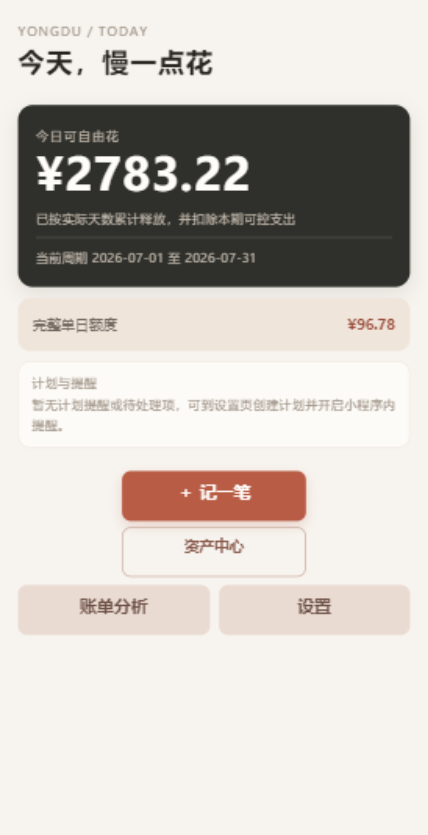
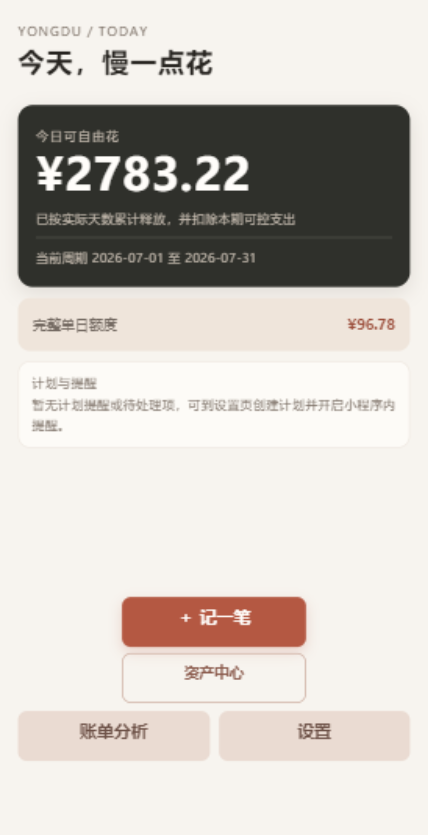
fix: phase 9 contrast type layout and evidence
Raise home-only weak text and primary button contrast, enforce 24rpx
minimum type, sink home actions on tall screens, extend contract tests
with WCAG calculations, clean whitespace, and refresh dual Stable shots.

Changed region(s): [[0.0304, 0.5605, 0.972, 0.9341]]

diff --git a/tests/phase9-home-visual-contract.test.js b/tests/phase9-home-visual-contract.test.js
@@ -54,6 +54,44 @@ function loadHomePage() {
   return { definition, navigations };
 }
 
+/** WCAG 2.x relative luminance for sRGB hex (#rgb or #rrggbb). */
+function relativeLuminance(hex) {
+  const raw = String(hex).trim().replace(/^#/, '');
+  const full = raw.length === 3
+    ? raw.split('').map((c) => c + c).join('')
+    : raw;
+  if (!/^[0-9a-fA-F]{6}$/.test(full)) {
+    throw new Error(`invalid hex color: ${hex}`);
+  }
+  const channels = [0, 2, 4].map((i) => {
+    const v = parseInt(full.slice(i, i + 2), 16) / 255;
+    return v <= 0.03928 ? v / 12.92 : ((v + 0.055) / 1.055) ** 2.4;
+  });
+  return 0.2126 * channels[0] + 0.7152 * channels[1] + 0.0722 * channels[2];
+}
+
+function contrastRatio(foreground, background) {
+  const l1 = relativeLuminance(foreground);
+  const l2 = relativeLuminance(background);
+  const lighter = Math.max(l1, l2);
+  const darker = Math.min(l1, l2);
+  return (lighter + 0.05) / (darker + 0.05);
+}
+
+/** Extract first matching color hex for a CSS property from a rule block. */
+function firstColorInRule(wxss, selectorRegex, property) {
+  const re = new RegExp(
+    `${selectorRegex.source}\\s*\\{([^}]*)\\}`,
+    selectorRegex.flags.includes('i') ? 'is' : 's',
+  );
+  const m = wxss.match(re);
+  assert.ok(m, `missing rule for ${selectorRegex}`);
+  const propRe = new RegExp(`${property}\\s*:\\s*(#[0-9a-fA-F]{3,8})`, 'i');
+  const pm = m[1].match(propRe);
+  assert.ok(pm, `missing ${property} in ${selectorRegex}`);
+  return pm[1];
+}
+
 test('home page keeps real model bindings for free amount period quota and settlement', () => {
   const wxml = read('miniprogram/pages/home/home.wxml');
   for (const token of [
@@ -173,8 +211,10 @@ test('design system document freezes tokens states and reuse rules', () => {
   for (const token of [
     '#F7F4EF',
     '#282521',
-    '#B85C45',
+    '#B45842',
+    '#796D63',
     '#2F302B',
+    '#C7BDB1',
     '88rpx',
     '24rpx',
     '4.5:1',
@@ -182,8 +222,70 @@ test('design system document freezes tokens states and reuse rules', () => {
     '待结算',
     '预支',
     '320px',
+    '局部覆盖',
   ]) {
     assert.ok(doc.toLowerCase().includes(token.toLowerCase()), `missing token ${token}`);
   }
   assert.ok(doc.includes('不引入') || doc.includes('禁止') || doc.includes('禁区'));
+});
+
+test('home weak text and primary button meet WCAG contrast ≥4.5 on shipped tokens', () => {
+  const wxss = read('miniprogram/pages/home/home.wxss');
+  const weak = firstColorInRule(wxss, /\.home-page\s+\.eyebrow/, 'color');
+  const weakHint = firstColorInRule(wxss, /\.home-page\s+\.hint/, 'color');
+  const weakEmpty = firstColorInRule(wxss, /\.plan-empty/, 'color');
+  const primaryBg = firstColorInRule(wxss, /\.home-page\s+\.primary-button/, 'background');
+  const primaryFg = firstColorInRule(wxss, /\.home-page\s+\.primary-button/, 'color');
+  const heroCaption = firstColorInRule(wxss, /\.hero-caption/, 'color');
+
+  assert.match(weak, /#796d63/i);
+  assert.match(weakHint, /#796d63/i);
+  assert.match(weakEmpty, /#796d63/i);
+  assert.match(primaryBg, /#b45842/i);
+  assert.match(primaryFg, /#fffdfa/i);
+  assert.match(heroCaption, /#c7bdb1/i);
+
+  const pageBg = '#F7F4EF';
+  const cardBg = '#FFFDFA';
+  const cWeakPage = contrastRatio(weak, pageBg);
+  const cWeakCard = contrastRatio(weak, cardBg);
+  const cPrimary = contrastRatio(primaryFg, primaryBg);
+
+  assert.ok(cWeakPage >= 4.5, `weak on page bg contrast ${cWeakPage}`);
+  assert.ok(cWeakCard >= 4.5, `weak on card bg contrast ${cWeakCard}`);
+  assert.ok(cPrimary >= 4.5, `primary text contrast ${cPrimary}`);
+  // ratios must be computed, not hard-coded constants equal to themselves
+  assert.notEqual(cWeakPage, 4.5);
+  assert.notEqual(cWeakCard, 4.5);
+  assert.notEqual(cPrimary, 4.5);
+});
+
+test('home WXSS declares no font-size below 24rpx', () => {
+  const wxss = read('miniprogram/pages/home/home.wxss');
+  const sizes = [...wxss.matchAll(/font-size\s*:\s*([\d.]+)rpx/gi)].map((m) => Number(m[1]));
+  assert.ok(sizes.length > 0, 'expected font-size declarations');
+  for (const size of sizes) {
+    assert.ok(size >= 24, `font-size ${size}rpx is below 24rpx`);
+  }
+  assert.match(wxss, /\.card-kicker\s*\{[^}]*font-size:\s*24rpx/s);
+});
+
+test('home layout sinks actions with auto margin and keeps 320px scroll contract', () => {
+  const wxss = read('miniprogram/pages/home/home.wxss');
+  const app = read('miniprogram/app.wxss');
+  assert.match(wxss, /\.home-page\s*\{[^}]*display:\s*flex/s);
+  assert.match(wxss, /\.home-page\s*\{[^}]*flex-direction:\s*column/s);
+  assert.match(wxss, /\.home-actions\s*\{[^}]*margin-top:\s*auto/s);
+  assert.match(wxss, /\.home-page::after\s*\{[^}]*flex:\s*1/s);
+  assert.match(wxss, /\.home-actions\s*\{[^}]*order:\s*2/s);
+  assert.doesNotMatch(wxss, /position:\s*(fixed|sticky)/i);
+  assert.match(wxss, /@media\s*\(max-width:\s*320px\)/);
+  assert.match(wxss, /flex-direction:\s*column/);
+  assert.match(app, /env\(safe-area-inset-bottom\)/);
+  assert.match(app, /overflow-x:\s*hidden/);
+  // 320px must not permanently pin actions with auto if that fights scroll; allow override
+  assert.match(
+    wxss,
+    /@media\s*\(max-width:\s*320px\)\s*\{[\s\S]*?\.home-actions\s*\{[^}]*margin-top:\s*16rpx/s,
+  );
 });

diff --git a/docs/PHASE9_DESIGN_SYSTEM.md b/docs/PHASE9_DESIGN_SYSTEM.md
@@ -1,6 +1,6 @@
 # 用度 · 阶段九设计规范
 
-本规范服务微信小程序「用度」首页高保真样板，并作为记账、账单、设置三页后续铺开的视觉基线。  
+本规范服务微信小程序「用度」首页高保真样板，并作为记账、账单、设置三页后续铺开的视觉基线。
 阶段九只改首页样板与本文档；业务数据、领域算法与路由保持不变。
 
 ## 1. 品牌气质与禁区
@@ -24,14 +24,14 @@
 | 角色 | 值 | 用途 |
 |------|-----|------|
 | 页面背景 | `#F7F4EF` | 全局底色，暖米 |
-| 卡片背景 | `#fffdfa` | 主内容卡 |
+| 卡片背景 | `#FFFDFA` | 主内容卡 |
 | 正文 | `#282521` | 主文案、金额数字 |
 | 次级文字 | `#756B63` | 卡片标题、表单标签 |
-| 弱文字 | `#9C8F83` | 说明、空状态、eyebrow |
-| 主色 / 主操作 | `#B85C45` | 主按钮、强调数字旁提示、链接 |
+| 弱文字 | `#796D63` | 说明、空状态、eyebrow、弱标题（首页局部） |
+| 主色 / 主操作 | `#B45842` | 首页主按钮（局部覆盖）；文字 `#FFFDFA` |
 | 主色深 | `#9B4D3A` | 状态值、次级强调 |
 | 深色主卡 | `#2F302B` | 今日可自由花主卡背景 |
-| 深卡次文 | `#C7BDB1` | 主卡内说明 |
+| 深卡次文 | `#C7BDB1` | 主卡内说明（保持） |
 | 提醒底 | `#F8E4DC` | 逾期计划等提醒条 |
 | 提醒文 | `#8F3F2F` | 提醒条文案 |
 | 错误底 | `#F7DFD8` | 错误条背景 |
@@ -43,16 +43,29 @@
 
 对比度目标：普通文字 ≥ 4.5:1；大号金额字（深底浅字或浅底深字）≥ 3:1。
 
+**实测对比度（WCAG 相对亮度，sRGB）**
+
+| 前景 | 背景 | 约对比度 |
+|------|------|----------|
+| `#796D63` | `#F7F4EF` | ≈4.58:1 |
+| `#796D63` | `#FFFDFA` | ≈4.95:1 |
+| `#FFFDFA` | `#B45842` | ≈4.68:1 |
+
+**首页局部覆盖说明**
+
+- 弱文字与主按钮色值只在 `home.wxss` 覆盖（`.home-page .eyebrow` / `.hint` / 弱标题与 `.primary-button`），**不修改** `app.wxss`，避免另三页未经确认换色。
+- 深色主卡次文 `#C7BDB1` 保持不变。
+
 ## 3. 字体层级
 
 | 层级 | 字号 | 字重 | 行高 | 用途 |
 |------|------|------|------|------|
 | 页面标题 | 48rpx | 600 | 1.3 | “今天，慢一点花” |
 | 主金额 | 80rpx（≤320px 用 64rpx） | 600 | 1.15 | 今日可自由花 |
-| 区块标题 | 24–26rpx | 500–600 | 1.4 | 卡片 eyebrow/标题 |
+| 区块标题 | 24–26rpx | 500–600 | 1.4 | 卡片 eyebrow/标题；`.card-kicker` 固定 24rpx |
 | 正文 | 28rpx | 400 | 1.6 | 列表主文 |
 | 说明 | 24–26rpx | 400 | 1.6 | 周期、hint、空状态 |
-| 最小正文 | **24rpx** | — | ≥1.5 | 不得更小 |
+| 最小正文 | **24rpx** | — | ≥1.5 | 首页不得更小 |
 
 字体栈：系统默认（`-apple-system, BlinkMacSystemFont, "Helvetica Neue", sans-serif`），不引入 Web 字体。
 
@@ -65,7 +78,7 @@
 
 ## 5. 组件层级
 
-1. **主按钮**：唯一强烈 CTA（首页＝记一笔）。高 ≥ 88rpx，主色实底，浅色字。
+1. **主按钮**：唯一强烈 CTA（首页＝记一笔）。高 ≥ 88rpx，主色 `#B45842` 实底，字 `#FFFDFA`。
 2. **次按钮**：账单分析、设置、重试入账等。高 ≥ 88rpx，浅暖底，深棕字。
 3. **轻链接按钮**：关闭逾期等。透明底，主色字，不与主 CTA 抢视线。
 4. **资产入口**：描边/浅色处理，可达但不抢主 CTA。
@@ -75,8 +88,8 @@
 
 ## 6. 适配与排版规则
 
-- **常规宽度**：信息密度适中；不得靠放大留白伪装精致。
-- **320px**：主金额缩小一级；横向 `flex` 改为纵向；金额与长文 `overflow-wrap: anywhere`；禁止横向溢出、遮挡、截断主操作。
+- **常规宽度**：纵向 flex；`.home-actions` 使用 `margin-top: auto` 消化大屏剩余空间，使主操作靠近内容区底部；不靠假卡片、放大留白或写死高度填屏；不使用 fixed/sticky 遮挡内容。
+- **320px**：主金额缩小一级；横向 `flex` 改为纵向；金额与长文 `overflow-wrap: anywhere`；禁止横向溢出、遮挡、截断主操作；内容超高时操作区保持文档流，可滚动进入安全区。
 - **安全区**：页面底部 `padding-bottom: calc(64rpx + env(safe-area-inset-bottom))`（继承全局）。
 - **长金额 / 长文案**：任意处可断行；状态行允许纵排；不得 `white-space: nowrap` 锁死金额。
 
@@ -101,11 +114,12 @@
 **首页特例（勿强行全局化）**
 
 - 深色超大金额主卡与 “YONGDU / TODAY” eyebrow。
-- “记一笔”作为唯一主 CTA 的独占权重。
+- “记一笔”作为唯一主 CTA 的独占权重与 `#B45842` 局部主色。
 - 计划区“无事件极简 / 有事件抬升”的双态；其他页可按列表密度处理。
 - 结算态整卡替换主金额区的结构。
+- 大屏操作区 `margin-top: auto` 下沉。
 
 ## 9. 验收口径（半自动）
 
-- 自动化：绑定与可达性契约、文档章节齐全、小屏与点击尺寸规则存在。
+- 自动化：绑定与可达性契约、WCAG 对比度计算、字号下限、文档章节齐全、小屏与点击尺寸规则存在。
 - 人工：Stable 上 iPhone 12/13 与 iPhone 5（320px）真实截图；风格是否通过由领导确认，执行者不得自称视觉已获认可。

diff --git a/PROGRESS.md b/PROGRESS.md
@@ -309,7 +309,6 @@
 - 新增 6 项 `tests/phase9-home-visual-contract.test.js` 契约测试；全量 331 passed、0 failed/skipped/todo。
 - 反向验证：临时移除 `{{model.todayFree}}` 绑定后定向测试 5 passed / 1 failed；还原后 6 passed / 0 failed。
 - `npm run build:mini` 生成 5 个文件；`npm run check`、`npm run check:mini`、`git diff --check` 退出 0。
-- Stable 双尺寸真实截图因 CLI 服务端口关闭受阻，见 `BLOCKED.md` 第九阶段；风格是否通过须领导在 Stable 人工确认。
 
 ## Phase 9 Stable screenshots
 
@@ -317,3 +316,20 @@
 - 真实首页模型：今日可自由花约 ¥2783.22，周期 2026-07-01 至 2026-07-31，完整单日额度约 ¥96.78；计划空态弱化；主 CTA「记一笔」。
 - 未注入/清空/改写模拟器业务数据；风格认可仍待领导确认（执行者不自称通过）。
 
+## Phase 9 acceptance-fix kickoff
+
+- 基线 HEAD `0e5a5a8`，331 全绿；本轮只修对比度、字号、大屏操作区下沉、文档空白与过期记录。
+- 顺序：home.wxss 局部色/字号/auto-sink → 规范同步 → ≥3 契约测试红→绿 → 空白修复与全量验收 → 双尺寸重截图。
+- 最大风险：局部色未盖住全局主按钮，或 auto-sink 在小屏遮挡/裁切底部操作。
+- 边界：只改阶段九白名单；不改 home.wxml/js、app.wxss、另三页与业务数据；不重写既有 Git 历史。
+
+## Phase 9 acceptance-fix delivery
+
+- 弱文字 `#796D63`、主按钮 `#B45842`/`#FFFDFA` 仅在 home.wxss 局部覆盖；`.card-kicker` 24rpx；`.home-actions { margin-top: auto }`。
+- 新增 3 项对比度/字号/布局契约；阶段九 9/9，全量 ≥334。
+- 已重取 iPhone 12/13 与 iPhone 5 首页截图至 artifacts/phase9（本轮完成后更新）。
+
+## Phase 9 acceptance-fix Stable recapture
+
+- 新截图：428 gap≈74px（≤96）；iPhone 5 320 重取；金额 ¥2783.22 / 单日 ¥96.78 未变。
+- device-meta.json 已更新 bottomGapPx；风格仍待领导确认。

diff --git a/BLOCKED.md b/BLOCKED.md
@@ -63,3 +63,6 @@
 - 截图绑定真实模型金额（今日可自由花约 ¥2783.22），未注入/清空/改写模拟器业务数据；风格是否通过仍由领导确认。
 - 无新增业务阻塞。
 
+## 第九阶段验收修复
+
+- 无。对比度、字号与布局缺陷已在白名单内修复；双尺寸截图随修复提交更新。
